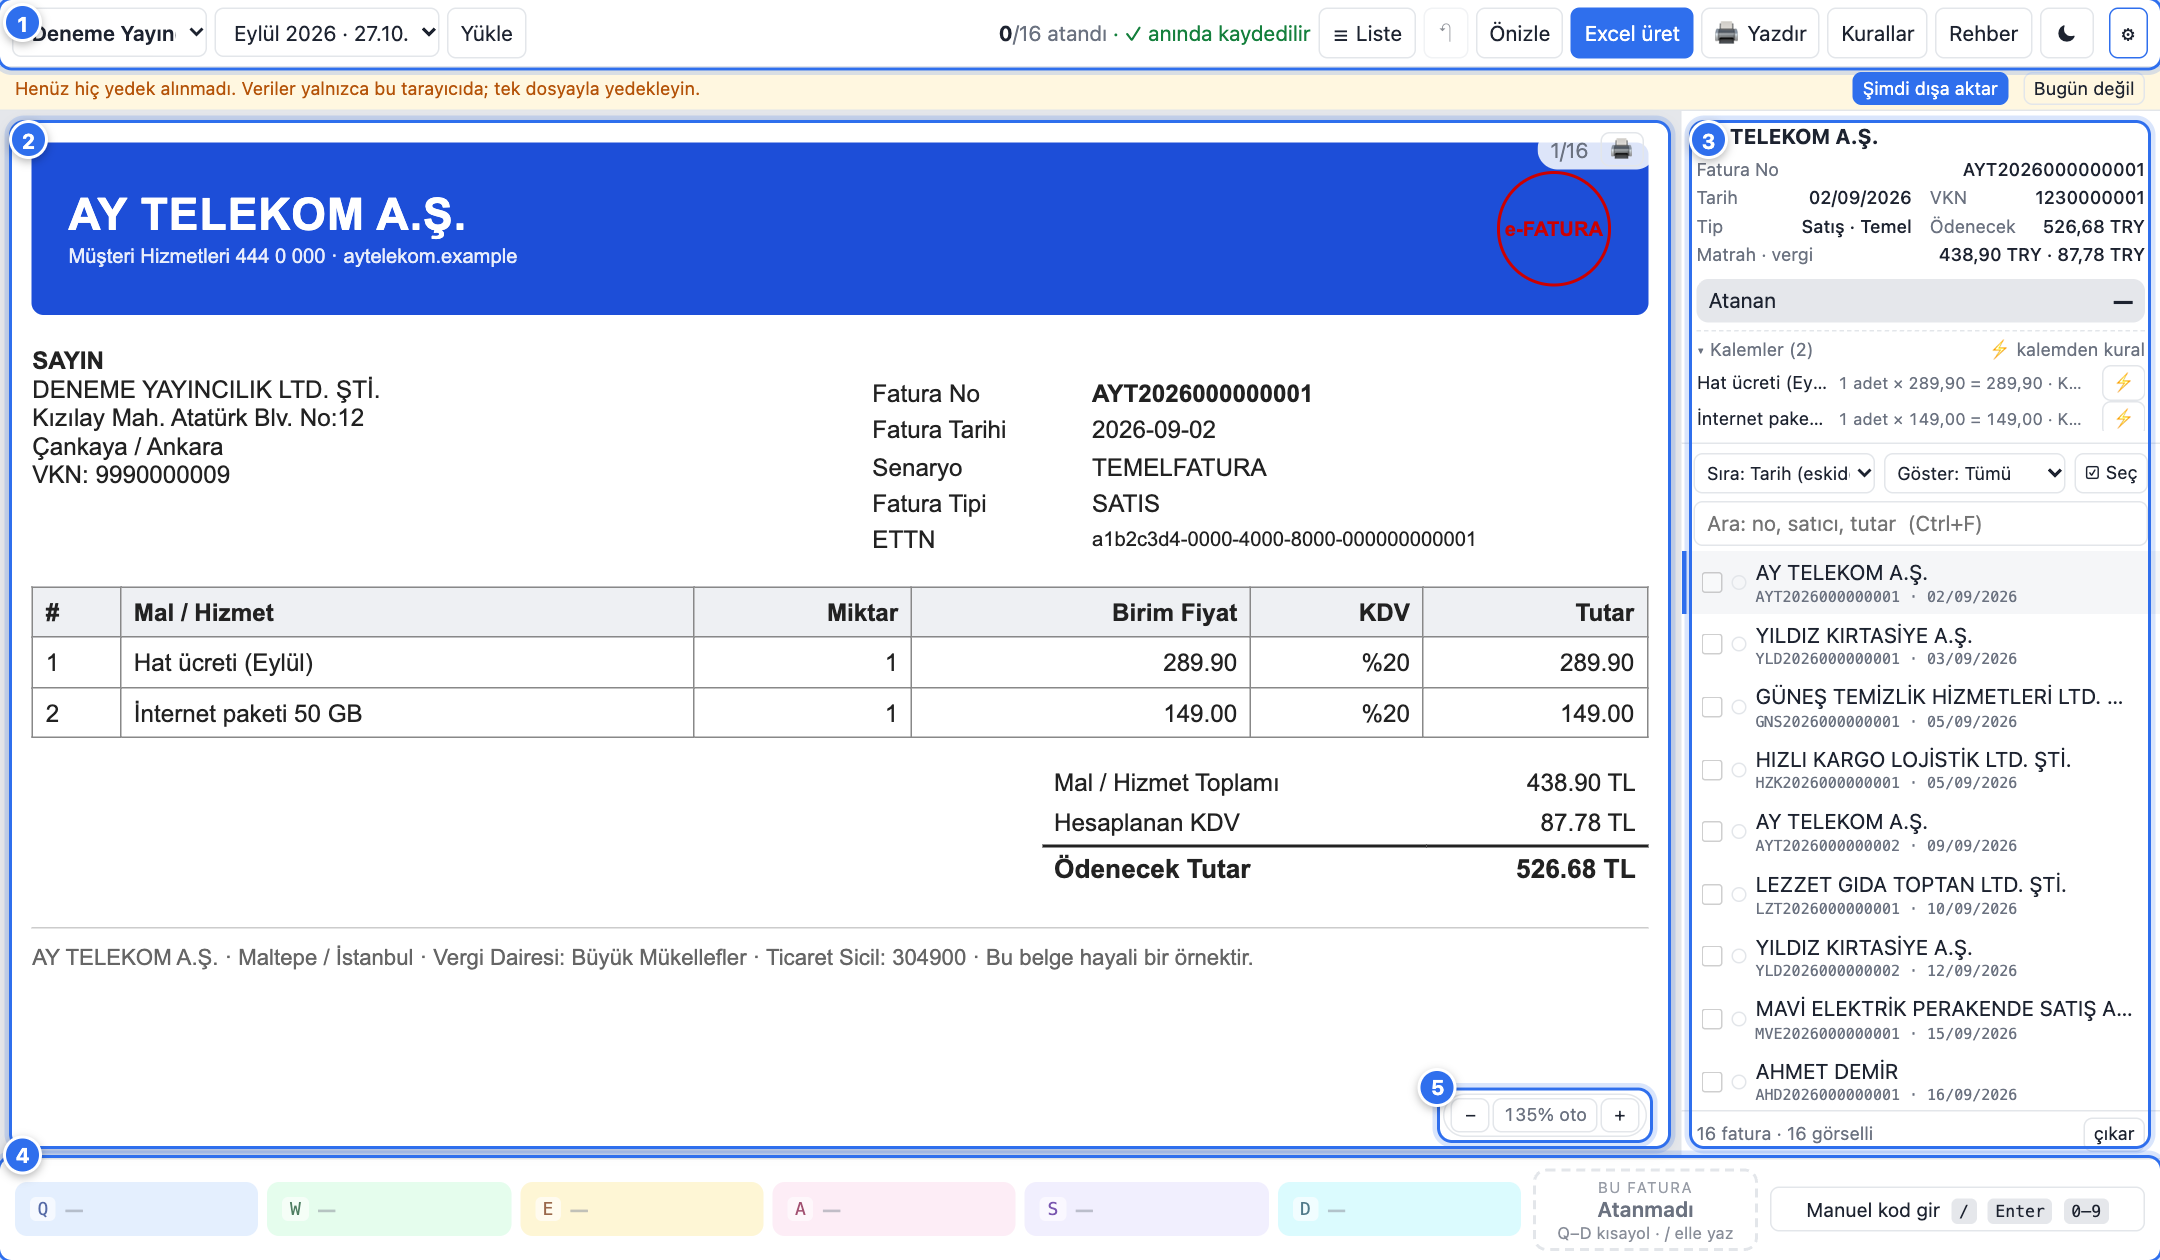
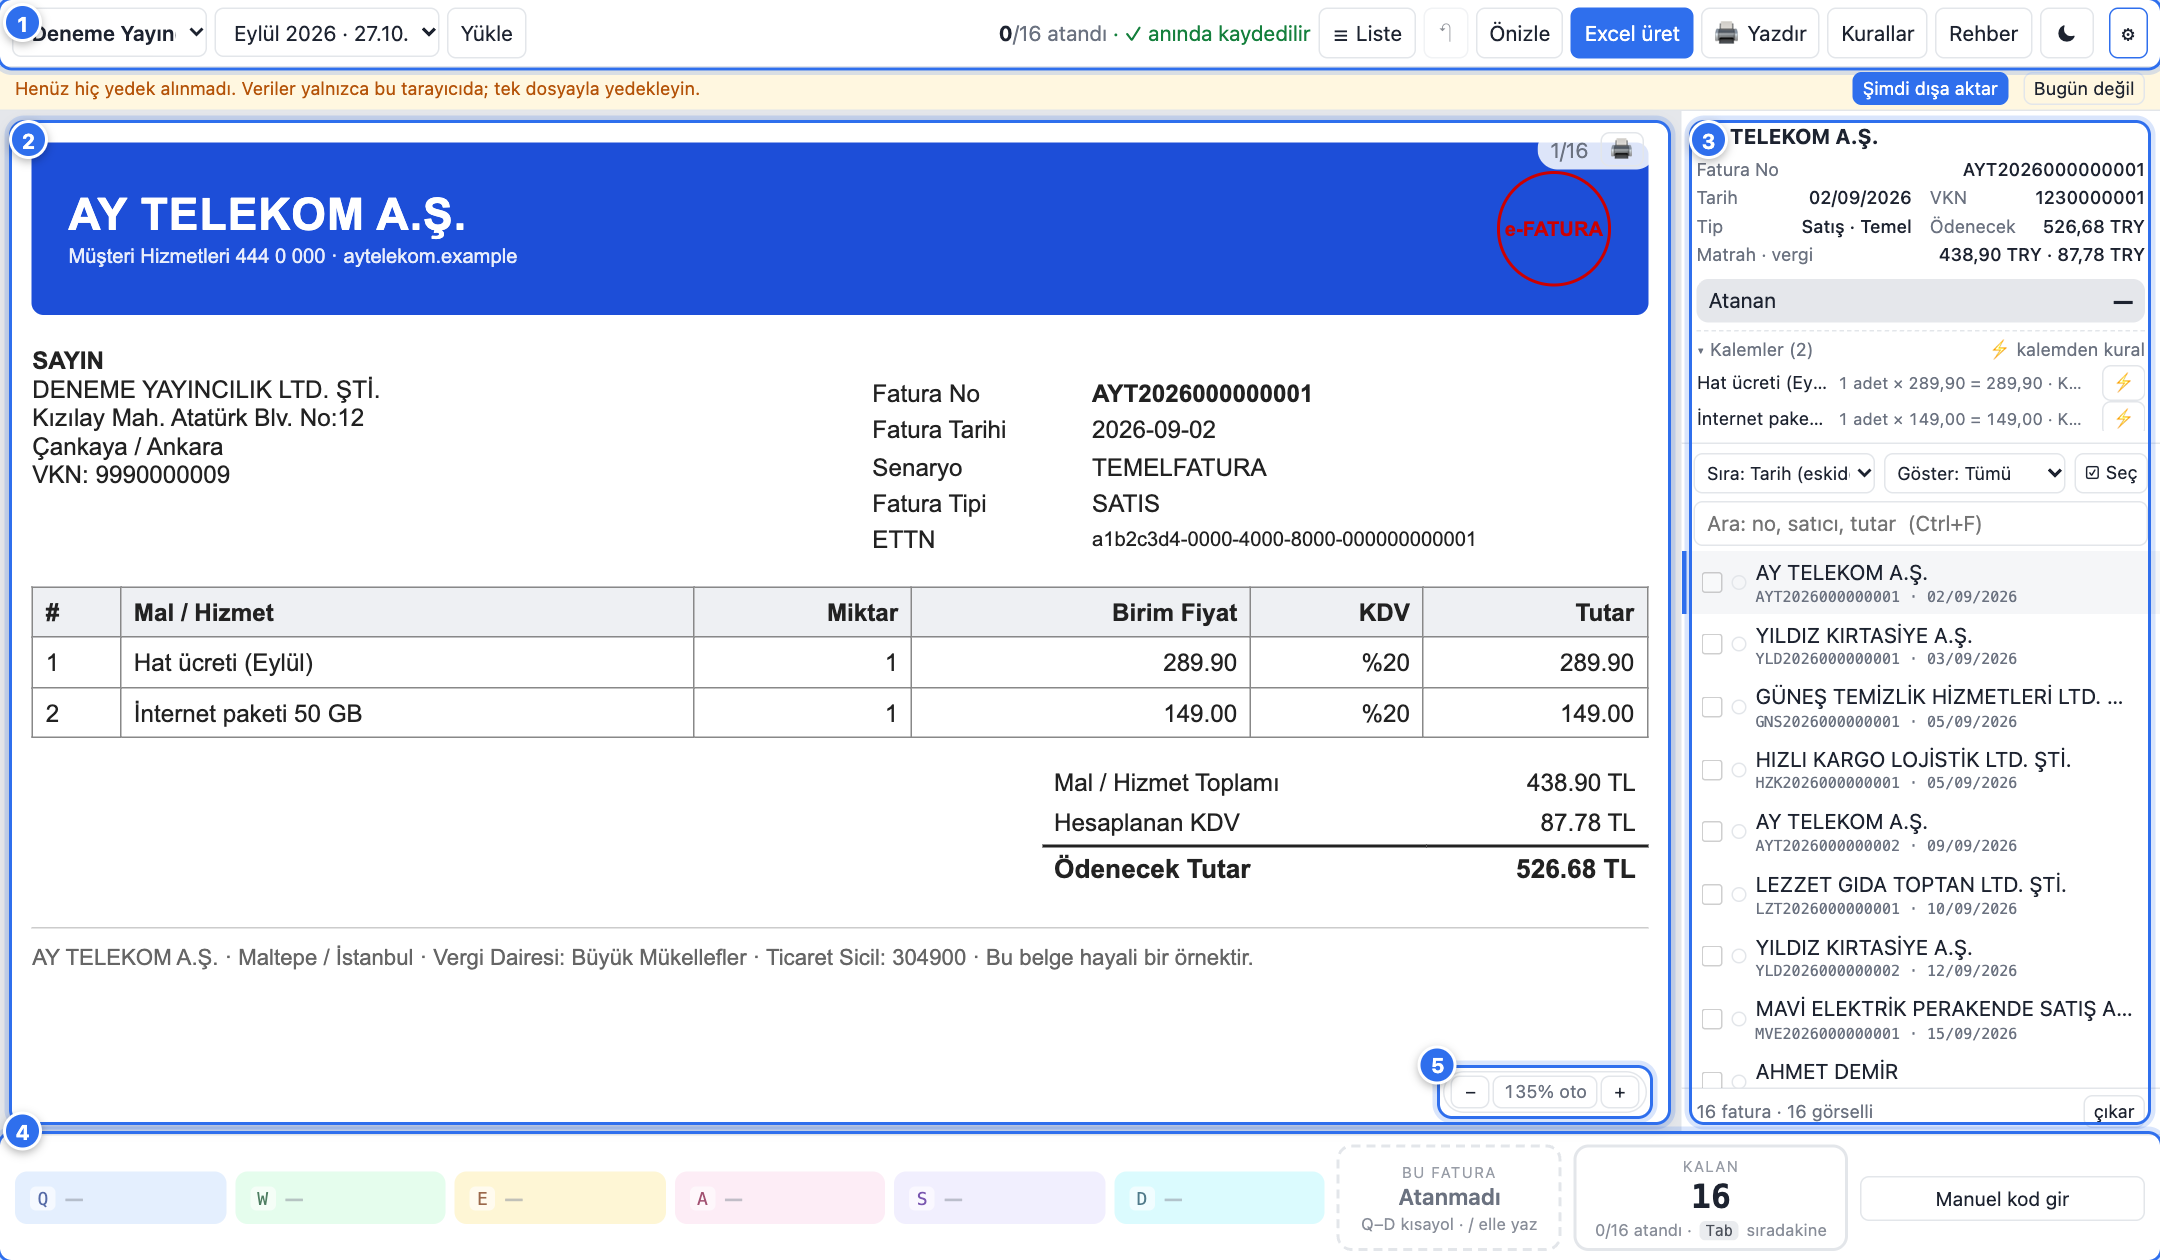
Sıkışık yerleşimde durum ve ilerleme kartları okunur boyda (kullanıcı: "fazla ezilmiş")
Kart küçültme ve ilerleme kartını gizleme geri alındı; yer elle giriş düğmesindeki tuş etiketlerinden ve yuvalardan kazanıldı (çubuk 61 → 70 px). Rehber görselleri yenilendi.

Changed region(s): [[0.0, 0.8357, 1.0, 1.0]]

diff --git a/src/ui/styles.css b/src/ui/styles.css
@@ -533,17 +533,19 @@ tr.iss-chart td.code-col { color: var(--warn); text-decoration: underline wavy v
 .app.density-compact .list-controls { margin: 6px 8px 0; } .app.density-compact .search { margin: 5px 8px 3px; padding: 4px 8px; }
 .app.density-compact .row { padding: 4px 10px; gap: 6px; } .app.density-compact .row-sub { font-size: 10px; }
 .app.density-compact .files { padding: 4px 10px; }
-.app.density-compact .bar { padding: 6px 10px; gap: 8px; grid-template-columns: minmax(0, 1fr) auto minmax(190px, 250px); }
-.app.density-compact .progress-card { display: none; } /* üst çubuktaki sayaç yeter */
-.app.density-compact .bar-mid { width: auto; max-width: none; justify-self: stretch; } .app.density-compact .status { min-width: 150px; max-width: 220px; }
+.app.density-compact .bar { padding: 6px 10px; gap: 8px; grid-template-columns: minmax(0, 1fr) auto minmax(150px, 190px); }
+/* Durum ve ilerleme kartları sıkışık yerleşimde de okunur boyda kalır: kullanıcı kodun nereye gittiğini ve kaç fatura kaldığını buradan görür */
+.app.density-compact .bar-mid { width: auto; max-width: none; justify-self: stretch; gap: 8px; }
+.app.density-compact .status { flex: 1 1 auto; min-width: 150px; max-width: 230px; padding: 5px 12px; gap: 1px; border-radius: 10px; }
+.app.density-compact .progress-card { min-width: 180px; max-width: 210px; }
+.app.density-compact .status-code { font-size: 22px; } .app.density-compact .status.empty .status-code { font-size: 15px; }
+.app.density-compact .status-label { font-size: 10px; } .app.density-compact .status-sub { font-size: 11px; }
+.app.density-compact .manual-box > button kbd { display: none; } /* tuşlar durum kartında ve Klavye sekmesinde yazılı */
 .app.density-compact .slots { grid-template-columns: repeat(6, minmax(0, 1fr)); gap: 6px; max-width: none; }
 .app.density-compact .slot { padding: 6px 8px; gap: 6px; font-size: 14px; border-radius: 8px; min-width: 0; }
 .app.density-compact .slot kbd { font-size: 12px; } .app.density-compact .slot-code { overflow: hidden; text-overflow: ellipsis; white-space: nowrap; }
 .app.density-compact .slot .slot-icon.edit { position: absolute; right: 4px; top: 50%; transform: translateY(-50%); padding: 2px 4px; } .app.density-compact .slot.editing .slot-icon { position: static; transform: none; }
 .app.density-compact .bar-mid { max-width: 420px; gap: 8px; }
-.app.density-compact .status { padding: 3px 10px; gap: 0; border-radius: 9px; }
-.app.density-compact .status-code { font-size: 18px; } .app.density-compact .status.empty .status-code { font-size: 14px; }
-.app.density-compact .status-label { font-size: 10px; } .app.density-compact .status-sub { font-size: 11px; }
 .app.density-compact .manual-input { font-size: 15px; padding: 5px 8px; }
 .app.density-compact .manual-box > button { padding: 5px 8px; font-size: 13px; }
 .app.density-compact .inv-view { padding: 8px; }
